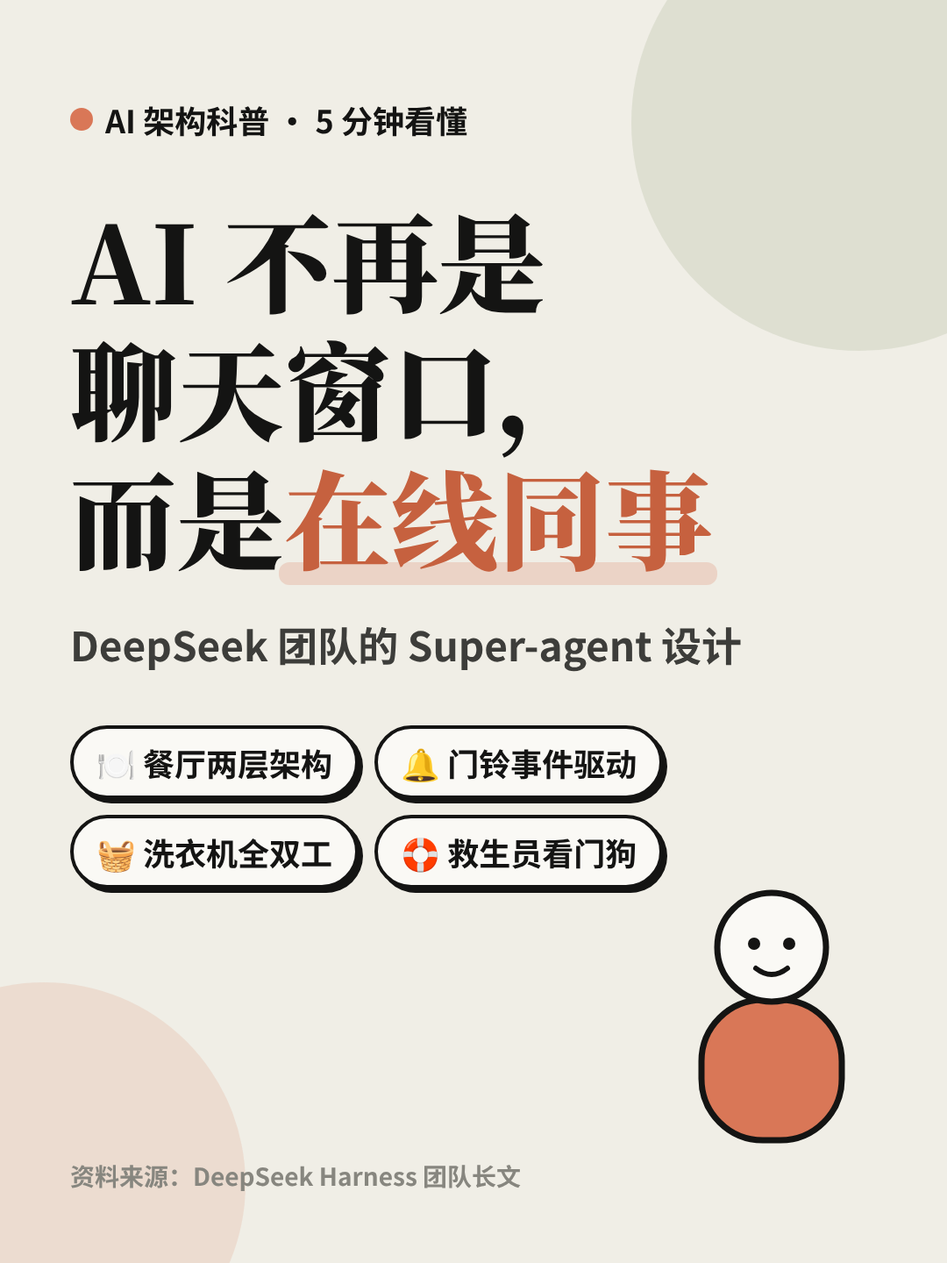
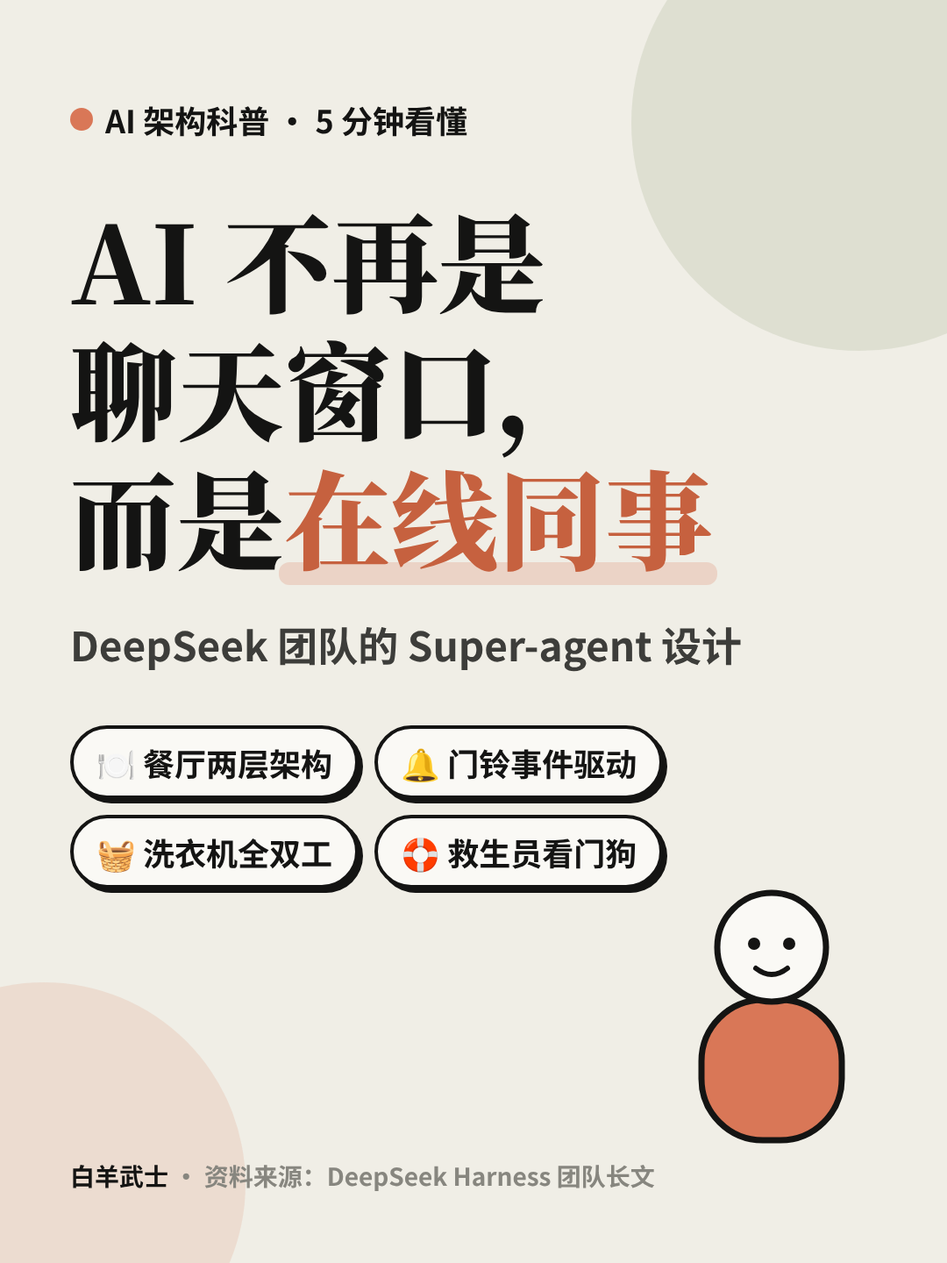
Generalize main flow per user rulings; sign 白羊武士; add Claude Code frontmatter
User rulings (2026-11-03):
- 'One metaphor through the whole film' is Style 01's own technique, not a main-flow
  red line; red line 2 is now 'concepts must be acted out concretely', method per style
- Drop the mandatory 'follow me' outro from the main flow
- Drop 'real frame + black mask + big text' as the universal cover rule (now Style 01's)
- No duration limit; vertical 9:16 for both styles
- Every video and cover is signed 白羊武士

Changes:
- SKILL.md: Claude Code frontmatter, 通用规定 section, route-agnostic workflow
- style-01: dated erratum note (original text kept)
- style-02: relationship table resolved; engine footer + cover carry 白羊武士
- README, skill.yaml description updated; demo cover re-rendered with signature

Claude-Session: https://claude.ai/code/session_01Vcd68wRqPB6ycNYpo5U93m

Changed region(s): [[0.0611, 0.9062, 0.7028, 0.9375]]

diff --git a/engines/style-02-warm-editorial/cover.html b/engines/style-02-warm-editorial/cover.html
@@ -1,5 +1,5 @@
 <!doctype html><html lang="zh-CN"><head><meta charset="utf-8">
-<!-- COVER TEMPLATE (3:4, 1080x1440). Edit: chip text, <h1> (3 short lines, one <em> keyword), .sub line, 4 analogy .tags, .foot source. Keep palette/fonts. -->
+<!-- COVER TEMPLATE (3:4, 1080x1440). Edit: chip text, <h1> (3 short lines, one <em> keyword), .sub line, 4 analogy .tags, .foot source. Keep the 白羊武士 signature, palette and fonts. -->
 <link rel="stylesheet" href="node_modules/@fontsource/noto-serif-sc/900.css"><link rel="stylesheet" href="node_modules/@fontsource/noto-sans-sc/700.css">
 <style>*{margin:0;padding:0;box-sizing:border-box}html,body{width:1080px;height:1440px;overflow:hidden}
 body{background:#F0EEE6;color:#141413;font-family:"Noto Sans SC";position:relative;padding:110px 80px}
@@ -18,4 +18,4 @@ h1 em{font-style:normal;color:#C6613F;position:relative}h1 em::after{content:"";
 <div class="sub">DeepSeek 团队的 Super-agent 设计</div>
 <div class="tags"><span>🍽 餐厅两层架构</span><span>🔔 门铃事件驱动</span><span>🧺 洗衣机全双工</span><span>🛟 救生员看门狗</span></div>
 <svg class="fig" width="260" height="320" viewBox="-130 -110 260 320"><rect x="-80" y="30" width="160" height="160" rx="70" fill="#D97757" stroke="#141413" stroke-width="7"/><circle cx="0" cy="-30" r="62" fill="#FAF9F5" stroke="#141413" stroke-width="7"/><circle cx="-20" cy="-34" r="7" fill="#141413"/><circle cx="20" cy="-34" r="7" fill="#141413"/><path d="M-18 -6 Q0 8 18 -6" fill="none" stroke="#141413" stroke-width="6" stroke-linecap="round"/></svg>
-<div class="foot">资料来源：DeepSeek Harness 团队长文</div></body></html>
+<div class="foot"><b style="color:#141413">白羊武士</b> · 资料来源：DeepSeek Harness 团队长文</div></body></html>

diff --git a/engines/style-02-warm-editorial/stage.html b/engines/style-02-warm-editorial/stage.html
@@ -129,7 +129,7 @@ const DUR = {fu:.7,fi:.6,pop:.6,sl:.7,sr:.7,drop:.8,stamp:.55,flip:.7,merge:.5,g
 window.setup = (si, starts, dur, total) => {
   const sc = SCENES[si];
   ST = {sc, starts, dur, si, total};
-  const M = (typeof META !== 'undefined') ? META : {}; document.getElementById('chap').textContent = (M.series || 'AI 科普') + ' · ' + sc.chap; document.getElementById('foot').textContent = M.source ? '资料来源：' + M.source : '';
+  const M = (typeof META !== 'undefined') ? META : {}; document.getElementById('chap').textContent = (M.series || 'AI 科普') + ' · ' + sc.chap; const ft = document.getElementById('foot'); ft.textContent = ''; const sg = document.createElement('b'); sg.style.color = 'var(--ink)'; sg.style.fontSize = '28px'; sg.textContent = M.author || '白羊武士'; ft.appendChild(sg); if (M.source) ft.appendChild(document.createTextNode('  ·  资料来源：' + M.source));
   document.getElementById('pg').textContent = String(si + 1).padStart(2, '0') + ' / ' + String(total).padStart(2, '0');
   const t = document.getElementById('t'); t.innerHTML = sc.title;
   t.dataset.at = 0; t.dataset.a = 'fu'; t.dataset.d = 0;

diff --git a/engines/style-02-warm-editorial/example/scenes.js b/engines/style-02-warm-editorial/example/scenes.js
@@ -352,5 +352,5 @@ const SCENES = [
     <div class="loop-bob" style="font-size:90px;margin-top:40px">👇</div></div>`,
 },
 ];
-const META = { series: 'AI 架构科普', source: 'DeepSeek Harness 团队《Exploring Super-agent Design》' };
+const META = { series: 'AI 架构科普', author: '白羊武士', source: 'DeepSeek Harness 团队《Exploring Super-agent Design》' };
 if (typeof module !== 'undefined') module.exports = { SCENES, META };

diff --git a/SKILL.md b/SKILL.md
@@ -1,81 +1,87 @@
+---
+name: ai-explainer-video
+description: >-
+  把概念、文章或帖子做成小红书/TikTok 竖屏 AI 科普短视频，包括配音、烧录字幕、封面和发布文案，署名白羊武士。
+  风格库：Style 01「永不打烊的 AI 公司」用 AI 生成镜头，一个隐喻贯穿全片；Style 02「暖色编辑插画 · 类比动画」用程序化插画动画，
+  每个机制配一个生活类比，逐帧渲染，引擎在 engines/style-02-warm-editorial/。
+  触发：做一个科普视频、把这篇文章/帖子做成视频、小红书科普视频、explainer video、要动效别像 PPT。
+---
+
 # AI Explainer Video（AI 科普视频制作）
 
-把一个概念、一篇文章或一条帖子，做成小红书/TikTok 风格的竖屏科普短视频：AI 生成动画镜头 + 配音 + 烧录字幕 + 封面 + 尾部关注钩子。本 skill 沉淀自 2026-11-03「超级智能体」一片的两版迭代（v1 被用户否决、v2 通过），标准与参数均为实测值。
+把一个概念、一篇文章或一条帖子，做成小红书/TikTok 风格的竖屏科普短视频：动画画面 + 配音 + 烧录字幕 + 封面。**画面怎么做、故事怎么讲，由所选风格决定**（见「风格库」），本文件只规定所有风格共用的红线、流程和交付标准。本 skill 沉淀自 2026-11-03「超级智能体」一片的多轮迭代，标准与参数均为实测值。
+
+## 通用规定（用户亲定，2026-11-03）
+
+- **画幅**：竖屏 9:16。具体分辨率按风格（Style 01 为 720×1280，Style 02 为 1080×1920）。
+- **时长**：不设限制，由选题的内容量决定。
+- **署名**：成片画面和封面都必须带署名「白羊武士」。
+- **不要片尾“关注我”尾钩**：主流程里不再有这个固定件。各风格的结尾怎么收，由风格自己定。
+- **风格要有各自的特点**：叙事手法（比如“一个隐喻贯穿全片”）、封面版式、字幕样式这些，属于各风格自己的规定，写在风格存档里，不放进主流程。
 
 ## 质量红线（用户亲定，违反任何一条即返工）
 
-1. **禁止程序化框图当主体**：用代码画方框、卡片、连线再逐页切换，本质是「会动的 PPT」，用户直接否决。程序化图示只能做辅助元素，不能当画面主体。
-2. **一个隐喻贯穿全片**：开工前先定一个具象隐喻（如：超级智能体 = 永不打烊的 AI 公司，普通聊天 AI = 打卡下班的临时工）。每个段落都必须是这个隐喻世界里正在发生的一幕，结尾必须回收隐喻（付出代价/清晨交付）。判定法：随便抽一帧，换个竞品概念还成立 = 没概念，只有特效，重做。
+1. **禁止程序化框图当主体**：用代码画方框、卡片、连线再逐页切换，本质是「会动的 PPT」，用户直接否决。框图和图示只能做辅助元素，不能当画面主体。（这条禁的是框图，不是程序化：Style 02 用程序画的是有角色、有道具的插画场景，并已通过用户验收。）
+2. **概念必须被具象地演出来**：每个技术概念都要翻译成观众熟悉的具体事物，并在画面里演出来，不能只贴一张标签。用什么手法翻译由风格决定（Style 01：一个隐喻贯穿全片；Style 02：每个机制一个生活类比）。判定法：随便抽一帧，换个竞品概念还成立 = 没概念，只有特效，重做。
 3. **讲到哪，演到哪**：旁白提到哪个部件/动作，画面当时必须正在演那个部件/动作，而不是贴一张标签图。背景动画必须与旁白实质相关，禁止纯装饰动效。
-4. **同一角色贯穿**：全片锁定一个角色描述（外形、配色、标志物），每段提示词逐字复用，观众要能认出是同一批角色。
-5. **镜头一直在动**：推镜、环绕、跟拍、穿窗而入；禁止静态画面停留。生成提示词里必须写连续运镜。
-6. **钩子在前，答案在后**：前 3 秒给出问题/反常画面，核心结论压到最后一句才揭晓，中途不提前说完。
+4. **同一角色贯穿**：全片锁定一种角色造型（外形、配色、标志物），观众要能认出是同一批角色。
+5. **画面一直在动**：推镜、环绕、跟拍，或者持续的循环动画；禁止静态画面停留。AI 生成路线要在提示词里写连续运镜；程序化路线要靠舞台推镜加每屏至少一个循环动画。
+6. **钩子在前，答案在后**：前 3 秒给出问题/反常画面，核心结论压到最后才揭晓，中途不提前说完。
 
 ## 工作流
 
 ### 1. 吃透素材
-- 读原文（帖子/文章/论文），先分清事实性质：是产品发布、研究成果，还是设计畅想/原型？**性质必须在片中明说**，不许把畅想讲成发布。
-- 提炼 5–6 个讲解点，每个点必须能翻译成隐喻世界里的一个动作/事件；翻译不出来的点删掉或合并。
+- 读原文（帖子/文章/论文），先分清事实性质：是产品发布、研究成果，还是设计畅想/原型？**性质必须在片中明说**，不许把畅想讲成发布。原文里的限定语（“初步实验”“非正式产品”等）要保留。
+- 提炼讲解点，每个点必须能翻译成所选风格里的一个画面动作/事件；翻译不出来的点删掉或合并。
 
-### 2. 先定隐喻，再写脚本
-- 隐喻一句话写死，记入本次制作目录的 `script.md`。
-- 脚本按段落写，每段对应一个镜头（约 45–65 个汉字，配音约 8–13 秒）。段落顺序：钩子（反常/问题）→ 概念登场 → 机制一 → 机制二 → 防翻车/代价 → 结论（回收隐喻+揭晓答案）。
-- 口语化、短句、有具体动作；禁止念定义、念参数表。技术名词出现时立刻用隐喻里的对应物解释。
+### 2. 选风格，写脚本
+- 先查「风格库」，按题材选风格；用户点名风格时以用户为准。按该风格存档里的叙事手法写脚本（Style 01：先定一句话隐喻再写；Style 02：每个机制先找一个类比再写）。
+- 段落大致顺序：钩子（反常/问题）→ 概念登场 → 各个机制 → 代价/局限 → 结论（揭晓答案）。
+- 口语化、短句、有具体动作；禁止念定义、念参数表。技术名词出现时立刻用风格里的对应物解释。
 
-### 3. 生成镜头（AI 视频生成）
-- 每段一个镜头，用 media 视频生成；单条消息最多 6 个镜头，需要第 7 个（如尾钩）等下一轮再生成。
-- 每条提示词 = **风格锁 + 角色锁 + 本段事件**（三段缺一不可，风格锁与角色锁逐字复用）。模板与本次实测全文见 `references/style-01-never-closing-office.md`。
-- 提示词硬规则：竖屏 9:16；写明连续运镜；写明 `no text, no letters, no words anywhere`（生成画面带字必乱码，文字一律后期叠加）；情绪词收尾（lonely / hopeful / relieved…）。
-- 生成后立刻抽帧验收：每段抽 15% / 55% / 90% 三帧拼条检查——角色是否一致、事件是否对题、配色是否统一。不对题的那一段单独重生成，不要全片重做。
+### 3. 做画面（按风格路线）
+- **AI 生成路线（Style 01）**：每段一个镜头，用 media 视频生成，单条消息最多 6 个镜头。每条提示词 = **风格锁 + 角色锁 + 本段事件**（三段缺一不可，风格锁与角色锁逐字复用）。提示词硬规则：竖屏 9:16；写明连续运镜；写明 `no text, no letters, no words anywhere`（生成画面带字必乱码，文字一律后期叠加）；情绪词收尾。生成后每段抽 15% / 55% / 90% 三帧拼条验收，不对题的单段重生成。模板与实测全文见 `references/style-01-never-closing-office.md`。
+- **程序化动画路线（Style 02）**：复制 `engines/style-02-warm-editorial/`，写 `scenes.js`，把每句旁白绑定画面动作，先 `STEP=preview bash build.sh` 出预览帧，逐张检查后再全量渲染。细节见 `references/style-02-warm-editorial.md`。
 
 ### 4. 配音
-- TTS 按段生成（一段一个文件），语速 108，语言 zh。测每段时长备用。
+- TTS 按段或按句生成（一个文件一段），不要整篇一次合成，否则对位会漂。测每段时长备用。
+- Style 01 实测：`/opt/hatch/bin/tts speak --language zh --speed 108`；Style 02 实测：edge-tts `zh-CN-YunxiNeural +12%`（没有 hatch tts 的环境）。
 - 告知用户：这是 AI 合成音；用户给真人录音则直接换轨。
 
-### 5. 合成（ffmpeg，参数为实测值）
-- 每段目标时长 = 该段配音时长 + 0.5s（头尾各 0.25s 呼吸）。视频用 `setpts = 目标/原始时长` 拉伸或压缩对齐；尾钩段例外：配音短（约 3s）时直接截取镜头前段、目标约 4.6s，不拉伸。
-- 音频：`adelay=250|250` 后 `apad, atrim` 到目标时长；尾钩 `adelay=400|400`。
-- 字幕：烧录，不用外挂。每段旁白切 3–4 条短句，按各句字数占段总字数的比例分配显示时间（近似对位即可）。样式：Noto Sans CJK Bold 41px、白字黑边、`box=1 boxcolor=black@0.62 boxborderw=16`、位置 `y=h-190` 居中。
-- 转场：每段头尾 `fade in/out 0.25–0.3s` 黑场淡入淡出即可；镜头本身都在运动，硬切+淡入淡出就连贯，不要花哨转场。
-- 钩子大字（仅第一段，0.4s–3.6s）：问题句两行，72px，白+黄，黑边，画面上部。
-- 拼接：各段同参数编码（libx264 / yuv420p / 30fps / AAC 160k）后 concat demuxer `-c copy`。
-- 成片规格：720×1280 竖屏，总长 60–75s。
+### 5. 合成
+- 时间轴以配音时长为准，画面对齐配音，不要反过来让配音迁就画面。
+- 字幕烧录，不用外挂；每屏最多 3 行，不溢出。
+- 转场以淡入淡出、硬切为主，不要花哨转场。
+- 编码：libx264 / yuv420p / 30fps / AAC，`-movflags +faststart`。
+- 各风格的具体参数（拉伸比、字幕样式、钩子大字、混音）见风格存档。
 
-### 6. 尾部钩子（固定件，每片必备）
-- 独立尾段约 4.6s：全员角色面向镜头的邀请镜头（挥手/指向观众）。
-- 大字叠加：「关注我」（92px 黄）+「带你了解更多 AI 干货」（54px 白），底部账号条「白羊武士 · AI 科普」。
-- 配音同句：「关注我，带你了解更多AI干货。」
+### 6. 封面
+- 尺寸 1080×1440（3:4）；必须带署名「白羊武士」；大字标题 + 一句副标题点明来源/主题。
+- 版式由风格决定（Style 01：真实帧加黑罩加大字；Style 02：纸感版式加类比标签），写在风格存档里。
+- 成图后必须回读检查一遍（文字遮挡、残字、穿帮都在这一步抓）。
 
-### 7. 封面
-- 公式（用户亲授）：**真实镜头帧作底图 + 半透明黑罩（约 52%）+ 醒目大字**。底图优先用片尾或高潮段的真实生成帧，不用程序图、不另外生图。
-- 尺寸 1080×1440（3:4）。大字 3 行约 112px（白/黄/白），副标题胶囊条一句话点明来源/主题，底部署名「白羊武士 · AI 科普」。
-- 裁切时避开底图自带的烧录字幕区，成图后必须回读检查一遍（文字遮挡、残字、穿帮都在这一步抓）。
-
-### 8. 交付验收清单
-- ffprobe：分辨率 720×1280、总时长、文件大小。
-- 音量：volumedetect mean 约 -21dB、max 约 -0.5dB 为健康。
-- 抽帧条：6 个时间点各一帧，检查画面对题、字幕对位无溢出、钩子大字正常。
-- 封面回读检查。
-- 交付物：成片 mp4 + 封面 jpg + 脚本（含标题备选与小红书正文文案、话题标签、来源标注）。
+### 7. 交付验收清单
+- ffprobe：竖屏分辨率符合风格规定、总时长、文件大小。
+- 音量健康：Style 01 实测 volumedetect mean 约 -21dB、max 约 -0.5dB；Style 02 实测整体约 -16 LUFS。
+- 抽帧条：均匀取 6 个以上时间点各一帧，检查画面对题、字幕对位无溢出、署名在。
+- 封面回读检查，确认署名在。
+- 交付物：成片 mp4 + 封面 + 脚本（含标题备选与小红书正文文案、话题标签、来源标注）。
+- 如实说明哪些部分没有完整看过或听过。
 - 发布提醒：小红书网页端登录过期时不要承诺代发，请用户手机发或重新扫码。
 
 ## 风格库（可持续扩展）
 
-每做出一种新风格并经用户认可后，按下面流程沉淀，不要改动已有风格文件：
-1. 在 `references/` 新增 `style-<序号>-<slug>.md`，写全：风格锁全文、角色锁、配色、运镜习惯、逐段提示词全文、脚本全文、成片参数、适用题材、不适用题材。
+每做出一种新风格并经用户认可后，按下面流程沉淀。不要改动已有风格文件；勘误除外，勘误要注明日期。
+1. 在 `references/` 新增 `style-<序号>-<slug>.md`，写全：叙事手法、视觉规范（配色、角色、运镜/动效）、制作路线、逐段提示词或分镜源码、脚本全文、封面版式、成片参数、适用题材、不适用题材。需要专用代码的话放到 `engines/style-<序号>-<slug>/`。
 2. 在 `references/styles-index.md` 登记一行（序号、名称、一句话特征、适用题材、代表作）。
 3. 在本文件「风格库」表里加一行。
-开工时先查索引，按题材选风格；用户点名风格时以用户为准。
 
 | 序号 | 风格 | 一句话特征 | 细节文件 |
 |---|---|---|---|
-| 01 | 永不打烊的 AI 公司 | 扁平矢量动画，机器人团队在深夜办公室里演完整个概念 | `references/style-01-never-closing-office.md` |
+| 01 | 永不打烊的 AI 公司 | AI 生成的扁平矢量动画，一个隐喻贯穿全片：机器人团队在深夜办公室里演完整个概念 | `references/style-01-never-closing-office.md` |
 | 02 | 暖色编辑插画 · 类比动画 | 程序化插画动画（不依赖 AI 视频生成），暖纸色+陶土橙+线描小人，每个机制一个生活类比、逐句同步出场 | `references/style-02-warm-editorial.md` + `engines/style-02-warm-editorial/` |
 
-> 选 Style 02 时，第 3 步“生成镜头”和第 5 步“合成”改按其存档里的流程走（一键 `build.sh`），并先看存档开头的「与主流程的差异」表。
-
 ## 元信息速查
-- 字体：`/usr/share/fonts/opentype/noto/NotoSansCJK-Bold.ttc`（ffmpeg drawtext 与 PIL 通用）。注意：该字体渲染 emoji 会出豆腐块，画面文字一律不用 emoji。
-- TTS：`/opt/hatch/bin/tts speak --language zh --speed 108`，默认音色即可；按段合成、按段对齐，不要整篇一次合成（对位会漂）。
-- 生成镜头数限制：单条消息最多 6 个，规划段落时算上尾钩的配额。
-- 已知小瑕疵容忍区：生成画面里偶尔出现极小的真实标识字（如电表 kWh）可接受；大面积文字、乱码字必须重生成该段。
+- 字体：`/usr/share/fonts/opentype/noto/NotoSansCJK-Bold.ttc`（ffmpeg drawtext 与 PIL 通用；Style 01 用）。注意：该字体渲染 emoji 会出豆腐块，ffmpeg/PIL 叠字一律不用 emoji。Style 02 在浏览器里渲染，用 `@fontsource/noto-serif-sc` 和 `@fontsource/noto-sans-sc`。
+- 生成镜头数限制（AI 生成路线）：单条消息最多 6 个，规划段落时算好配额。
+- 已知小瑕疵容忍区（AI 生成路线）：生成画面里偶尔出现极小的真实标识字（如电表 kWh）可接受；大面积文字、乱码字必须重生成该段。

diff --git a/references/style-02-warm-editorial.md b/references/style-02-warm-editorial.md
@@ -9,25 +9,27 @@
 - 适用题材：技术架构、AI 产品机制、方法论；概念多、需要多个生活类比逐个讲清楚的题材。没有 AI 视频生成能力的环境也能做
 - 不适用：需要电影感运镜和真实场景的题材；60 秒以内的强情绪短片（这类优先用 Style 01）
 
-## 与主流程（SKILL.md）的差异 —— 开工前必读
+## 与主流程的关系（2026-11-03 用户裁定后）
 
-Style 02 和 Style 01 是在两次独立会话里分别被用户认可的，有几处做法不一样。**主流程里的红线仍然有效**；下表写明 Style 02 怎么满足它们，以及哪些地方不同。不同的地方都已提请用户确认。确认之前，用户在当次任务里怎么说就怎么做。
+Style 02 遵守主流程的全部通用规定和质量红线。下面是本风格的**专属特点**（主流程允许各风格自定）：
 
-| 主流程规定 | Style 02 的做法 | 状态 |
+| 项目 | 主流程 | Style 02 的做法 |
 |---|---|---|
-| 红线 1：禁止程序化框图当主体 | 主体是**有角色、有道具的插画场景**（餐厅、门铃、办公桌、洗衣机、泳池），不是方框和连线。每句旁白都触发动作，每屏至少一个持续循环的动画。第一版“深色卡片 PPT”就是因为违反这条被否决的 | ✅ 满足（同一个教训） |
-| 红线 2：一个隐喻贯穿全片 | 用了**多个类比**，每个机制配一个（餐厅 / 门铃 / 办公桌 / 洗衣机 / 救生员），开场和结尾用“你盯着 AI → AI 替你盯着”收束 | ⚠ 不同，待用户裁定 |
-| 红线 3：讲到哪演到哪 | 用 `A(第几句, 动画, 延迟)` 把画面变化精确绑定到每句旁白 | ✅ 满足 |
-| 红线 4：同一角色贯穿 | 全片统一一种小人（圆头 + 圆角身体），陶土色 = AI 或主角，天蓝色 = 你 | ✅ 满足 |
-| 红线 5：镜头一直在动 | 舞台全程缓慢推镜，背景圆斑漂移，每屏有循环动画；场景切换带淡入淡出和上移 | ✅ 满足（程序化运镜） |
-| 红线 6：钩子在前 | 开场用“AI 越能干，你怎么越忙？”加硬数字 | ✅ 满足 |
-| 成片 720×1280、60–75s | 1080×1920，4:52（11 个场景）。要压到 60–75s 的话，取 ★ 场景（见下文） | ⚠ 不同 |
-| 尾部“关注我”钩子（每片必备） | 结尾是“评论区聊聊 / 收藏 / 关注”的互动卡，**没有独立的 4.6s 尾钩段** | ⚠ 缺，待补或待裁定 |
-| 封面 = 真实帧 + 52% 黑罩 + 大字 | 浅色纸感版式封面（衬线大字 + 类比标签 + 小人），没用真实帧 | ⚠ 不同 |
-| 字幕：白字黑边黑底条 | 米白卡片 + 黑描边 + 硬投影（随风格） | 风格内差异 |
-| TTS `/opt/hatch/bin/tts` | edge-tts `zh-CN-YunxiNeural +12%`（云端环境里没有 hatch tts） | 环境差异，有 hatch 时可替换 |
-| 音量 mean ≈ -21dB | 按 LUFS 控制：整体 -16 LUFS，人声说话时音乐自动压低约 15dB | 等价的健康标准 |
-| 署名“白羊武士 · AI 科普” | 页眉写系列名，页脚写资料来源；**下一次制作应补上署名** | ⚠ 待补 |
+| 红线 1：禁止程序化框图当主体 | 通用 | 主体是**有角色、有道具的插画场景**（餐厅、门铃、办公桌、洗衣机、泳池），不是方框和连线。第一版深色卡片 PPT 就是因为违反这条被否决的 |
+| 红线 2：概念被具象地演出来 | 手法由风格定 | **每个机制一个生活类比**（餐厅 / 门铃 / 办公桌 / 洗衣机 / 救生员），类比后面紧跟术语；开场和结尾用“你盯着 AI → AI 替你盯着”收束 |
+| 红线 3：讲到哪演到哪 | 通用 | 用 `A(第几句, 动画, 延迟)` 把画面变化精确绑定到每句旁白 |
+| 红线 4：同一角色贯穿 | 通用 | 全片统一一种小人（圆头 + 圆角身体）；陶土色 = AI 或主角，天蓝色 = 你 |
+| 红线 5：画面一直在动 | 通用 | 舞台全程缓慢推镜，背景圆斑漂移，每屏至少一个循环动画；场景切换带淡入淡出和上移 |
+| 红线 6：钩子在前 | 通用 | 开场用“AI 越能干，你怎么越忙？”加一个硬数字 |
+| 画幅 | 竖屏 9:16 | 1080×1920 |
+| 时长 | 随选题 | 一个场景约 20–30 秒；示例 11 个场景 4:52。想短一点就取 ★ 场景（见类比手册） |
+| 署名 | 「白羊武士」 | 每帧页脚自动显示「白羊武士 · 资料来源：…」（`META.author` 默认就是白羊武士）；封面页脚也带署名 |
+| 结尾 | 不做“关注我”尾钩 | 最后一个场景是总结金句 + 互动提问（评论区 / 收藏 / 关注），属于正片内容，不是独立的尾钩段 |
+| 封面 | 版式由风格定 | 浅色纸感版式：衬线大字 3 行 + 副标题 + 4 个类比标签 + 主角小人 + 署名 |
+| 字幕 | 烧录、≤3 行 | 米白卡片 + 黑描边 + 硬投影，46px |
+| 配音 / 响度 | 按段 TTS | edge-tts `zh-CN-YunxiNeural +12%`，逐句生成；整体约 -16 LUFS，人声说话时音乐自动压低约 15dB |
+
+> 仓库里的 demo（`demo/style-02-*`）是在“署名必须为白羊武士”这条规定之前做的，成片页脚还没有署名；封面已补上。新片用当前引擎做，会自动带上署名。
 
 ## 制作流程（Style 02）
 
@@ -326,12 +328,11 @@ amix normalize=0 → alimiter limit .89 → AAC 192k
 
 ### 画幅
 
-当前 `stage.html` 只针对 1080×1920 排版。改成 4:3（1440×1080）或 16:9 时：
+当前 `stage.html` 只针对 1080×1920 排版（主流程规定竖屏 9:16）。以后如果要做横版（4:3 或 16:9）：
 1. 设置环境变量 `VW/VH` 让 `render.js` 用新的视口；
 2. 重写 `stage.html` 的版面：标题区放左栏、舞台放右栏、字幕放底部一条，每个场景的舞台坐标都要重新检查；
 3. 建议做成 `engines/<engine-id>/` 下的一个新引擎，登记为新风格或新变体，不要直接改 `engines/style-02-warm-editorial/`。
 
-（注意：用户 2026-09-02 定过“视频与封面一律 4:3（1440×1080）”，与本次 9:16 冲突，开工前要确认画幅。）
 
 ### 取原文
 

diff --git a/README.md b/README.md
@@ -1,21 +1,22 @@
 # ai-explainer-video-skill
 
 把一个概念、一篇文章或一条帖子，做成小红书 / TikTok 风格竖屏 AI 科普短视频的 Agent Skill：
-**一个隐喻贯穿全片 + AI 生成动画镜头 + 同一角色贯穿 + 配音 + 烧录字幕 + 封面 + 尾部关注钩子。**
+**概念被具象地演出来 + 同一角色贯穿 + 讲到哪演到哪 + 配音 + 烧录字幕 + 封面，署名白羊武士。画面怎么做、故事怎么讲由风格决定：Style 01 用 AI 生成镜头、一个隐喻贯穿全片；Style 02 用程序化插画动画、每个机制一个类比。**
 
 ## 它解决什么问题
 
 科普视频最常见的失败模式是「会动的 PPT」：程序画几个框图卡片、逐页切换、旁白念定义。这个 skill 把 2026-11-03 一次真实迭代（v1 被否决 → 研究 X 上优秀科普片 → v2/v3 验收通过）的标准、参数和踩坑全部沉淀下来，让任何 agent 照着做都能达到同一水准：
 
-- **质量红线**：禁止程序化框图当主体；隐喻必须被演出来而不是贴标签；讲到哪演到哪；镜头一直在动；钩子在前、答案在后。
-- **完整管线**：素材研判（畅想 ≠ 发布必须明说）→ 定隐喻写脚本 → AI 生成镜头（风格锁+角色锁+事件）→ 抽帧验收 → TTS 按段配音 → ffmpeg 合成（时长对齐、字幕计时、转场参数）→ 尾部关注钩子 → 封面（真实帧+黑罩+大字）→ 六点交付验收。
+- **质量红线**：禁止程序化框图当主体；概念必须被具象地演出来而不是贴标签；讲到哪演到哪；画面一直在动；钩子在前、答案在后。
+- **通用规定**：竖屏 9:16；时长随选题；成片和封面署名「白羊武士」；不做“关注我”尾钩；叙事手法和封面版式由各风格自定，每个风格要有自己的特点。
+- **完整管线**：素材研判（畅想 ≠ 发布必须明说）→ 选风格写脚本 → 做画面（AI 生成镜头 或 程序化动画）→ 抽帧验收 → TTS 按段配音 → 合成（时长对齐、烧录字幕、转场）→ 封面 → 交付验收。
 - **可扩展风格库**：每种验收通过的新风格以 `references/style-NN-*.md` 独立存档并登记索引，只增不改。当前已有 Style 01「永不打烊的 AI 公司」（扁平矢量动画，机器人团队演完整个 Agent 概念），含全部提示词与脚本全文；Style 02「暖色编辑插画 · 类比动画」（程序化插画动画，每个机制一个生活类比，附可复制引擎）。
 
 ## 文件
 
 | 文件 | 内容 |
 |---|---|
-| `SKILL.md` | 主流程、红线、合成参数、封面与尾钩规范、验收清单 |
+| `SKILL.md` | 通用规定、质量红线、主流程、封面通用要求、验收清单、风格库（含 Claude Code 所需的开头元信息） |
 | `skill.yaml` | Skill 元信息 |
 | `references/styles-index.md` | 风格索引与新增风格流程 |
 | `references/style-01-never-closing-office.md` | Style 01 全档案：风格锁、角色锁、逐段提示词、脚本、实测参数、踩坑记录 |
@@ -33,8 +34,8 @@
 
 - **隐喻**：超级智能体 = 一家永不打烊的 AI 公司；普通聊天 AI = 打卡下班的临时工。全片六段都发生在这家公司里，结尾以电表飞转（代价）和清晨交付一摞报告（回收隐喻）收束。
 - **风格**：Style 01「永不打烊的 AI 公司」——同一批小机器人员工贯穿全片，AI 生成动画镜头，讲到哪演到哪。
-- **规格**：原片竖屏 720×1280、69.8 秒（含 4.6 秒「关注我」尾钩）；仓库内为 540×960 压缩预览版，文件在 `demo/super-agent-explainer-v3.mp4`，封面在 `demo/super-agent-cover.jpg`。
-- **管线**：原文研判 → 定隐喻写脚本 → 6+1 段 AI 生成镜头 → 抽帧验收 → 按段 TTS 配音 → ffmpeg 合成（时长对齐、烧录字幕、淡入淡出）→ 真实帧封面 → 六点验收交付。
+- **规格**：原片竖屏 720×1280、69.8 秒（含 4.6 秒「关注我」尾钩；尾钩已于 2026-11-03 从主流程取消，新片不再做）；仓库内为 540×960 压缩预览版，文件在 `demo/super-agent-explainer-v3.mp4`，封面在 `demo/super-agent-cover.jpg`。
+- **管线**：原文研判 → 定隐喻写脚本 → 6+1 段 AI 生成镜头 → 抽帧验收 → 按段 TTS 配音 → ffmpeg 合成（时长对齐、烧录字幕、淡入淡出）→ 真实帧封面（Style 01 的封面版式）→ 六点验收交付。
 - **迭代故事**：第一版用程序绘制的框图卡片制作，被用户以「太粗糙、像 PPT 放幻灯片」否决；按本 skill 的质量红线重做后验收通过。这条红线就来自这次教训。
 
 ## Demo 2：《Super-agent》Style 02 版

diff --git a/references/style-01-never-closing-office.md b/references/style-01-never-closing-office.md
@@ -2,6 +2,12 @@
 
 代表作：《超级智能体》小红书科普视频 v2/v3（2026-11-03，用户验收通过）。素材：DeepSeek Harness 的 Super-agent 设计长文。成片 720×1280，v2 为 65 秒，v3 加尾钩 69.8 秒。
 
+> **2026-11-03 勘误（用户裁定）**：
+> 1. “一个隐喻贯穿全片”是**本风格的专属叙事手法**，原先误写进了主流程，现已从主流程移到这里。本风格继续沿用：开工前定一句话隐喻（超级智能体 = 永不打烊的 AI 公司，普通聊天 AI = 打卡下班的临时工），每段都发生在这个隐喻世界里，结尾回收隐喻。
+> 2. 片尾“关注我”尾钩**不再是必备件**。下文 S7 尾钩的提示词和参数只作为历史记录保留，新片默认不做。
+> 3. 封面“真实帧 + 约 52% 黑罩 + 大字”是**本风格的封面版式**，不是主流程的通用要求。
+> 4. 署名统一为「白羊武士」，成片和封面都要带；时长不设限。
+
 ## 适用题材
 - Agent / 系统架构 / 软件概念科普：凡是能翻译成「一群角色分工协作」的抽象系统都适用（多智能体、自动化流程、平台机制）。
 - 不适用：需要真实产品界面演示的实操教程（那类用实拍录屏）；严肃新闻播报。
